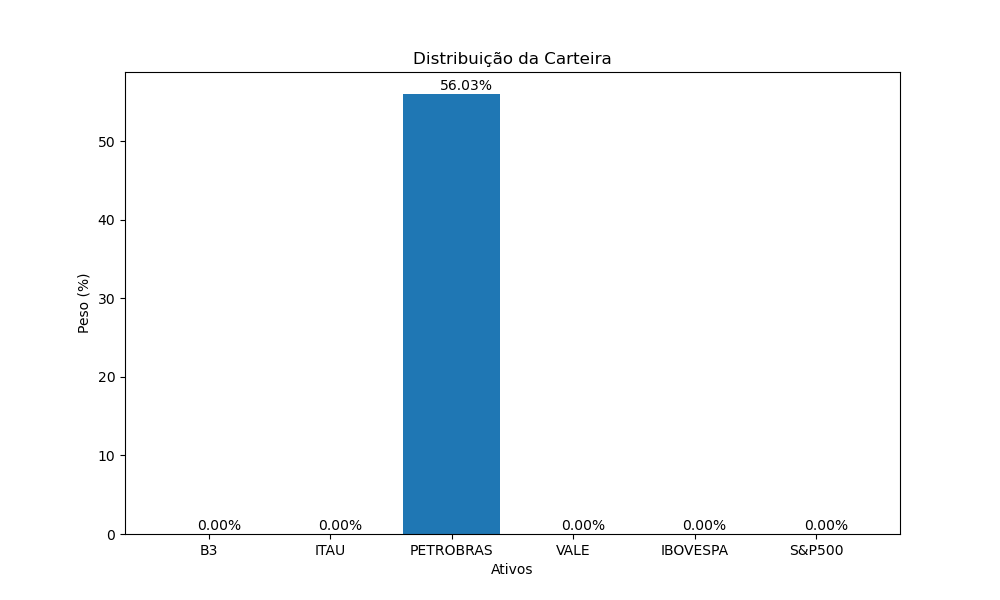
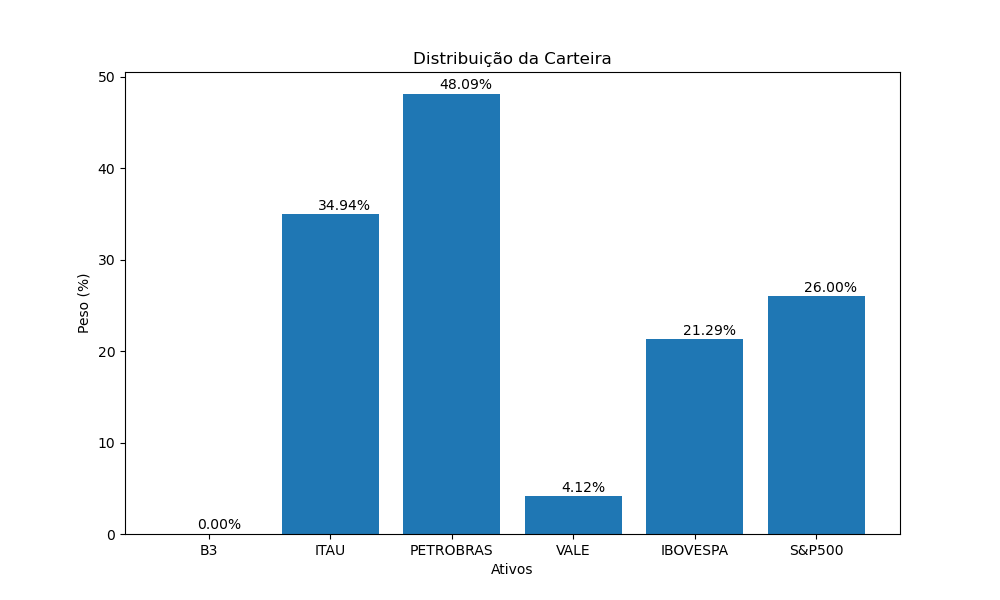
Trocando a otmização da carteira

diff --git a/investment_optimization.py b/investment_optimization.py
@@ -1,11 +1,11 @@
-import install_packages
+# import install_packages
 import yfinance as yf
 import pandas as pd
 from datetime import datetime, timedelta
 import numpy as np
 import matplotlib.pyplot as plt
 import seaborn as sns
-from scipy.optimize import linprog
+from scipy.optimize import linprog, minimize
 
 # Define os tickers dos ativos financeiros a serem analisados
 tickers = ["PETR3.SA", "^BVSP", "^GSPC", "VALE3.SA", "ITUB4.SA", "B3SA3.SA"]
@@ -60,16 +60,31 @@ print(cvar)
 # Função para otimizar a carteira
 
 
-def otimizar_carteira(retornos, riscos, capacidade):
-    c = [-r for r in retornos]
-    A = [riscos]
-    b = [capacidade]
-    resultado = linprog(c, A_ub=A, b_ub=b, bounds=(0, 1))
+def otimizar_carteira(retornos, risco, risco_maximo):
+    n = len(retornos)
+
+    # Função objetivo: maximizar o retorno
+    def objetivo(pesos):
+        return -np.dot(pesos, retornos)
+
+    # Restrição de risco
+    def restricao(pesos):
+        return risco_maximo - np.sqrt(np.dot(pesos.T, np.dot(np.diag(risco**2), pesos)))
+
+    # Restrições e limites dos pesos dos ativos
+    restricoes = {'type': 'ineq', 'fun': restricao}
+    limites = [(0, 1) for _ in range(n)]
+    pesos_iniciais = np.ones(n) / n  # Pesos iniciais iguais
+
+    # Resolver problema de otimização
+    resultado = minimize(objetivo, pesos_iniciais, method='SLSQP',
+                         bounds=limites, constraints=restricoes)
+
     return resultado.x
 
 
 # Executa a otimização da carteira com limite de risco de 0.2
-pesos = otimizar_carteira(retornos.mean(), volatilidade, capacidade=0.2)
+pesos = otimizar_carteira(retornos.mean(), volatilidade, 0.2)
 pesos_percent = [peso * 100 for peso in pesos]
 
 # Visualiza a Fronteira Eficiente
